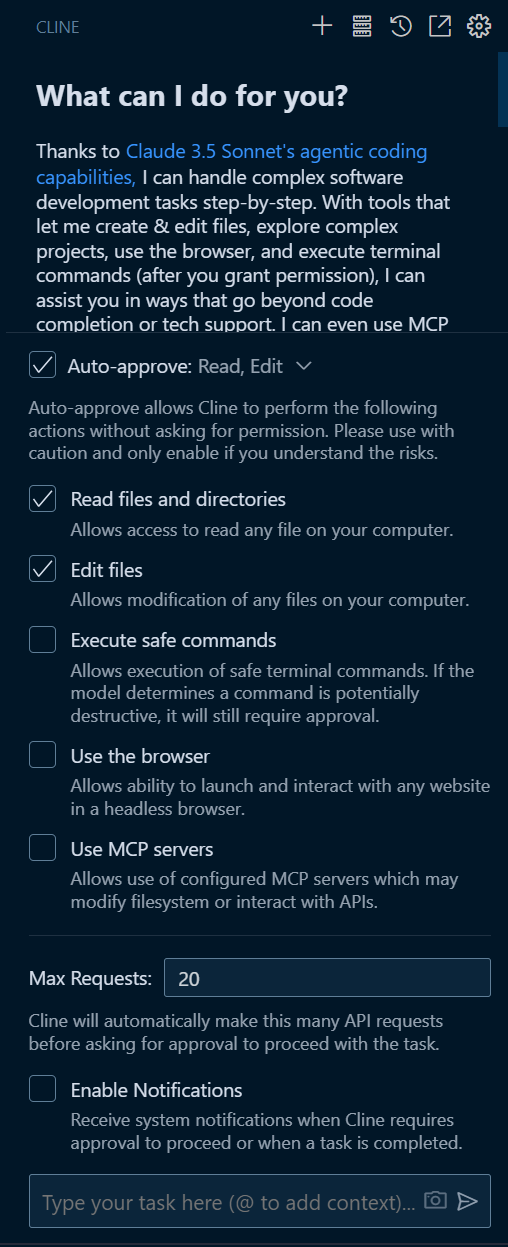
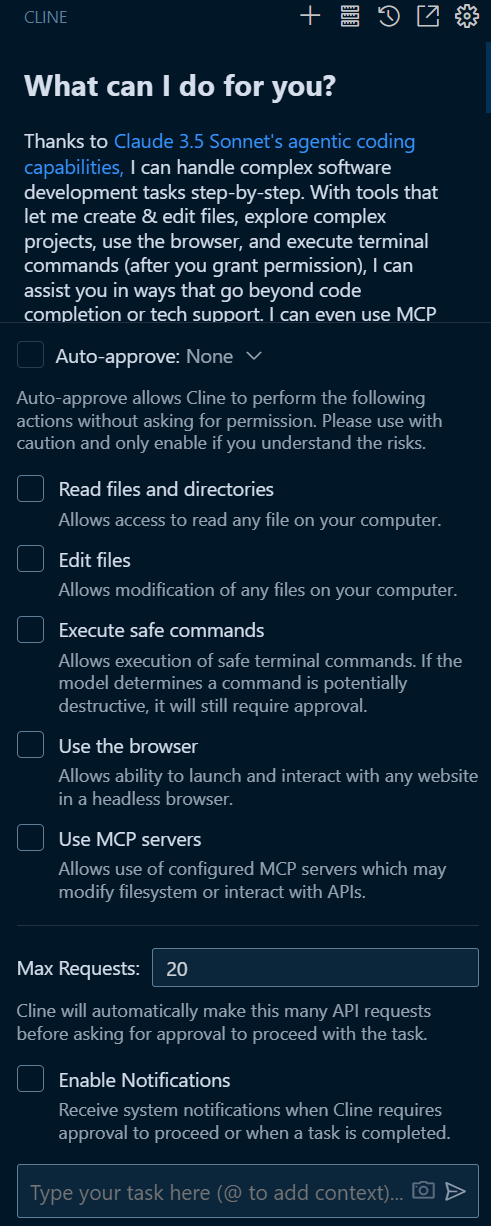
add(docs): Add Cline best practices

diff --git a/docs/cline/README.md b/docs/cline/README.md
@@ -33,3 +33,17 @@ Meet Cline, an AI assistant that can use your CLI aNd Editor.
 ## Integrate with DeepSeek API
 
 ![image](./assets/cline-02.png)
+
+## Best practices
+
+1. **Disable Cline's Auto Approve Feature**: It is recommended to disable Cline's Auto Approve feature when using DeepSeek to reduce resource consumption and minimize the risk of lag caused by concurrent multiple requests.
+
+2. **Use Modified Versions of Cline**: For example, Roo-Cline or ALine. These modified versions carry relatively shorter contexts, handle requests more smoothly, and have a higher cache hit rate, which can help save API call costs.
+
+3. **Use DeepSeek with Caution for Large Projects**: For large code projects, it is not recommended to use DeepSeek + Cline. Large projects typically carry a large amount of code context, which can significantly slow down API request processing.
+
+4. **Switch to Other LLM Providers**: It is recommended to switch to other LLM providers when using Cline for a smoother experience.
+
+## Roo Cline
+
+![image](./assets/roocline-00.png)

diff --git a/docs/cline/README_cn.md b/docs/cline/README_cn.md
@@ -33,3 +33,17 @@ Cline 是一款能够使用您的 CLI 和编辑器的 AI 助手。
 ## 与 DeepSeek API 集成
 
 ![image](./assets/cline-02.png)
+
+## 最佳实践
+
+1. **关闭 Cline 的 Auto Approve 功能**：建议在使用 DeepSeek 时，关闭 Cline 的 Auto Approve 功能，以降低资源消耗，降低多请求因并发带来的卡顿风险。
+
+2. **使用 Cline 改版**：例如 Roo-Cline 或 ALine。这些改版携带的上下文相对短，处理请求时表现更为流畅，且缓存命中率更高，可以帮助节省 API 调用成本。
+
+3. **慎用 DeepSeek 处理大型工程**：对于大型代码工程，不建议使用 DeepSeek + Cline。大型工程通常会携带大量代码上下文，会导致 API 请求处理速度明显变慢。
+
+4. **更换其他 LLM 提供商**：建议您在使用 Cline 时，更换其他 LLM 提供商，以获得更流畅的体验。
+
+## Roo Cline
+
+![image](./assets/roocline-00.png)
